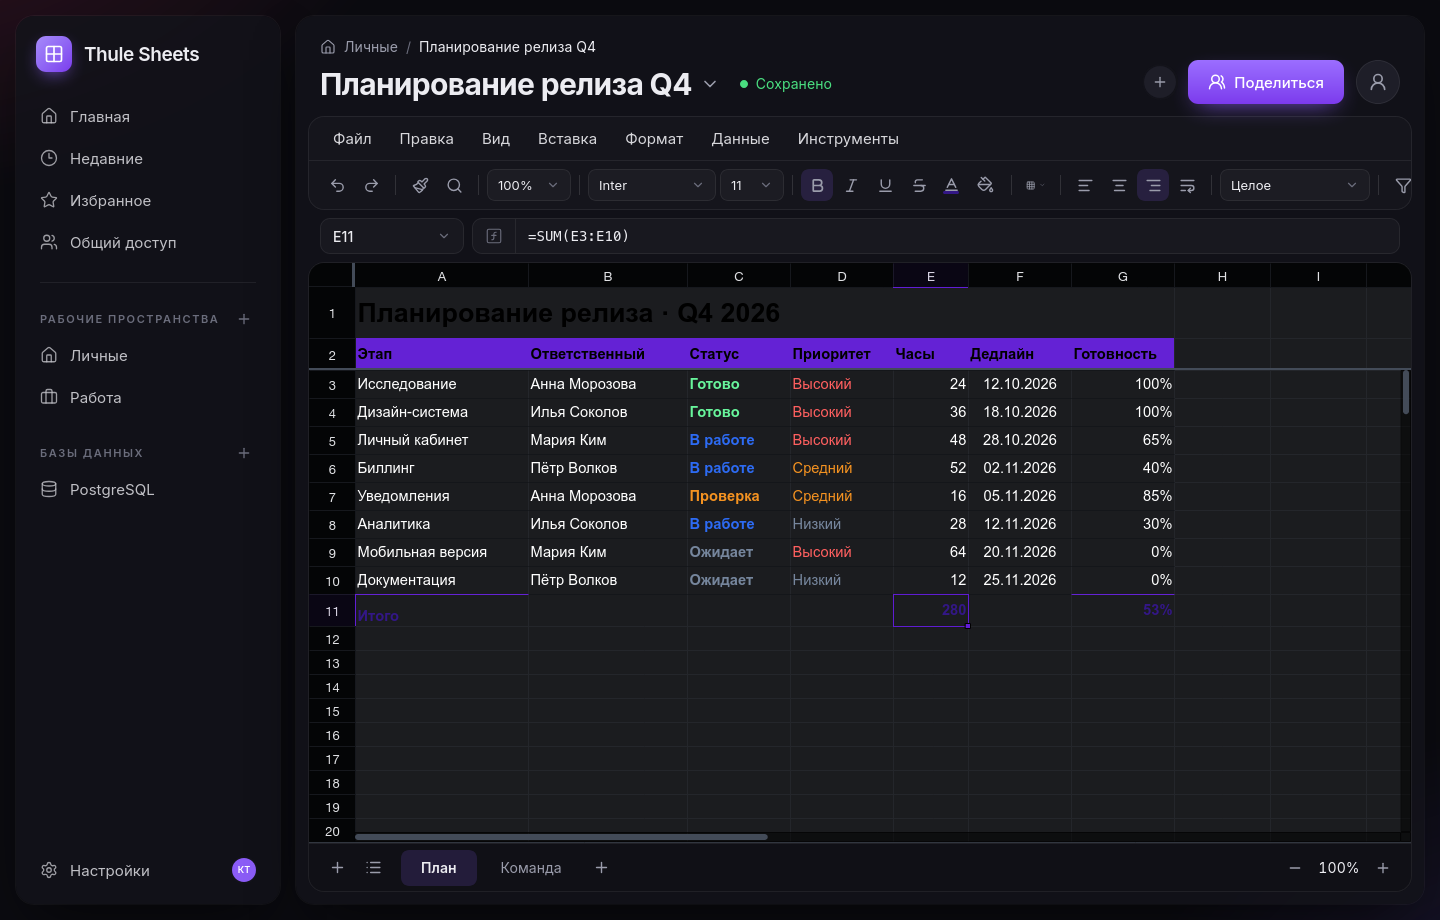
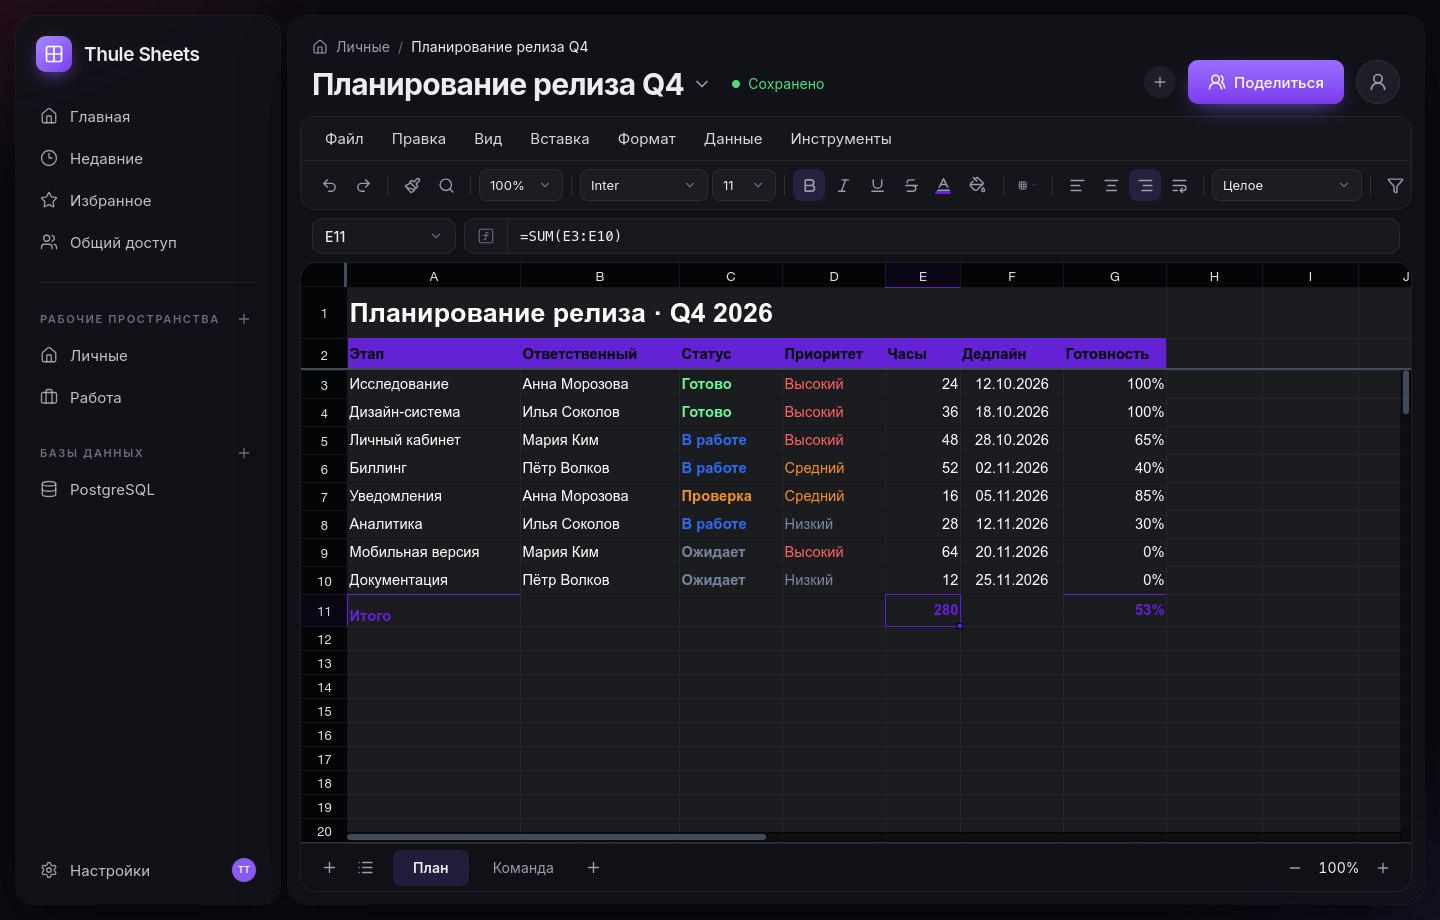
Add light sheet theme and 8px window gap
- Add a persisted light/dark toggle for the sheet canvas in the View menu
- Adapt sheet tabs and color swatches to the active canvas theme
- Reduce the gap between shell windows to 8 px
- Refresh README presentation and screenshots

diff --git a/apps/web/src/pages/WorkbookPage.tsx b/apps/web/src/pages/WorkbookPage.tsx
@@ -1,6 +1,6 @@
 import { useQuery, useQueryClient } from '@tanstack/react-query';
 import clsx from 'clsx';
-import { ChevronDown, Home, Plus, Star, UserRound, UsersRound } from 'lucide-react';
+import { ChevronDown, Home, Moon, Plus, Star, Sun, UserRound, UsersRound } from 'lucide-react';
 import { useCallback, useEffect, useMemo, useRef, useState, type ReactNode } from 'react';
 import { Link, useNavigate, useParams } from 'react-router';
 
@@ -62,6 +62,9 @@ export function WorkbookPage() {
   const [sheets, setSheets] = useState<SheetInfo[]>([]);
   const [activeSheet, setActiveSheet] = useState('');
   const [zoom, setZoom] = useState(1);
+  const [lightSheet, setLightSheet] = useState(
+    () => localStorage.getItem('thule.sheet-light') === '1',
+  );
   const [saveState, setSaveState] = useState<SaveState>('saved');
   const [status, setStatus] = useState<SyncStatus>('connecting');
   const [peers, setPeers] = useState<Peer[]>([]);
@@ -92,7 +95,7 @@ export function WorkbookPage() {
     const data = detail.data;
     if (!data || !container.current) return;
     let cancelled = false;
-    const h = bootUniver(container.current);
+    const h = bootUniver(container.current, !lightSheet);
     handle.current = h;
     const univerApi = h.api;
     createWorkbook(univerApi, data.snapshot);
@@ -182,6 +185,11 @@ export function WorkbookPage() {
     // toggle (new object identity, same workbook).
   }, [detail.data?.id, refreshUi, toast]);
 
+  // The engine starts in the saved mode; subsequent switches are applied in place.
+  useEffect(() => {
+    univer?.toggleDarkMode(!lightSheet);
+  }, [univer, lightSheet]);
+
   useEffect(() => {
     if (title) document.title = `${title} — Thule Sheets`;
     return () => {
@@ -195,6 +203,14 @@ export function WorkbookPage() {
     if (!sheet) return;
     sheet.zoom(value);
     setZoom(value);
+  }
+
+  function toggleSheetLight() {
+    setLightSheet((previous) => {
+      const next = !previous;
+      localStorage.setItem('thule.sheet-light', next ? '1' : '0');
+      return next;
+    });
   }
 
   async function exportAs(format: 'xlsx' | 'csv') {
@@ -388,6 +404,13 @@ export function WorkbookPage() {
             <MenuItem onSelect={run(commands.unfreeze)}>Снять закрепление</MenuItem>
             <MenuSeparator />
             <MenuItem onSelect={run(commands.toggleGridlines)}>Показать / скрыть сетку</MenuItem>
+            <MenuSeparator />
+            <MenuItem
+              icon={lightSheet ? <Moon className="size-4" /> : <Sun className="size-4" />}
+              onSelect={toggleSheetLight}
+            >
+              {lightSheet ? 'Тёмная таблица' : 'Белая таблица'}
+            </MenuItem>
           </TopMenu>
           <TopMenu label="Вставка">
             <MenuItem disabled={readOnly} onSelect={run(commands.insertRowBefore)}>
@@ -462,7 +485,14 @@ export function WorkbookPage() {
             <MenuItem onSelect={() => setDialog('versions')}>История версий</MenuItem>
           </TopMenu>
         </nav>
-        <Toolbar api={univer} selection={selection} readOnly={readOnly} zoom={zoom} onZoom={setZoomLevel} />
+        <Toolbar
+          api={univer}
+          selection={selection}
+          readOnly={readOnly}
+          zoom={zoom}
+          onZoom={setZoomLevel}
+          darkCanvas={!lightSheet}
+        />
       </div>
 
       <div className="pt-2">
@@ -471,10 +501,20 @@ export function WorkbookPage() {
 
 
       {/* Sheet */}
-      <section className="relative flex min-h-0 flex-1 flex-col overflow-hidden rounded-2xl bg-[#101016] hairline">
+      <section
+        className={clsx(
+          'relative flex min-h-0 flex-1 flex-col overflow-hidden rounded-2xl',
+          lightSheet ? 'border border-black/10 bg-white' : 'bg-[#101016] hairline',
+        )}
+      >
         <div ref={container} className="univer-host min-h-0 flex-1" />
         {(!univer || rebuilding) && (
-          <div className="absolute inset-0 flex items-center justify-center bg-[#101016]/70">
+          <div
+            className={clsx(
+              'absolute inset-0 flex items-center justify-center',
+              lightSheet ? 'bg-white/70' : 'bg-[#101016]/70',
+            )}
+          >
             <Spinner className="size-6" />
           </div>
         )}
@@ -485,6 +525,7 @@ export function WorkbookPage() {
           readOnly={readOnly}
           zoom={zoom}
           onZoom={setZoomLevel}
+          light={lightSheet}
         />
       </section>
 

diff --git a/apps/web/src/editor/SheetTabs.tsx b/apps/web/src/editor/SheetTabs.tsx
@@ -18,6 +18,7 @@ export function SheetTabs({
   readOnly,
   zoom,
   onZoom,
+  light,
 }: {
   api: FUniver | null;
   sheets: SheetInfo[];
@@ -25,6 +26,7 @@ export function SheetTabs({
   readOnly: boolean;
   zoom: number;
   onZoom: (value: number) => void;
+  light: boolean;
 }) {
   const [renaming, setRenaming] = useState<string | null>(null);
   const [draft, setDraft] = useState('');
@@ -65,14 +67,23 @@ export function SheetTabs({
     if (sheet && workbook) workbook.duplicateSheet(sheet);
   }
 
+  const tone = light
+    ? '!text-black/55 hover:!bg-black/[0.05] hover:!text-black'
+    : undefined;
+
   return (
-    <div className="flex h-12 shrink-0 items-center gap-1 border-t border-line px-3">
-      <IconButton label="Добавить лист" disabled={readOnly || !api} onClick={add}>
+    <div
+      className={clsx(
+        'flex h-12 shrink-0 items-center gap-1 border-t px-3',
+        light ? 'border-black/10 text-black/70' : 'border-line',
+      )}
+    >
+      <IconButton label="Добавить лист" className={tone} disabled={readOnly || !api} onClick={add}>
         <Plus className="size-[17px]" />
       </IconButton>
       <Menu>
         <MenuTrigger asChild>
-          <IconButton label="Все листы">
+          <IconButton label="Все листы" className={tone}>
             <List className="size-[17px]" />
           </IconButton>
         </MenuTrigger>
@@ -98,7 +109,10 @@ export function SheetTabs({
                 if (e.key === 'Enter') commitRename();
                 if (e.key === 'Escape') setRenaming(null);
               }}
-              className="h-9 w-32 rounded-lg bg-app px-3 text-[14px] outline-none ring-2 ring-accent/60"
+              className={clsx(
+                'h-9 w-32 rounded-lg px-3 text-[14px] outline-none ring-2 ring-accent/60',
+                light ? 'bg-black/[0.04] text-black' : 'bg-app',
+              )}
             />
           ) : (
             <ContextMenu.Root key={sheet.id}>
@@ -113,8 +127,13 @@ export function SheetTabs({
                   className={clsx(
                     'relative h-9 shrink-0 rounded-lg px-5 text-[14px] transition',
                     sheet.id === activeId
-                      ? 'bg-accent-soft font-semibold text-fg after:absolute after:inset-x-3 after:-bottom-[7px] after:h-[2px] after:rounded-full after:bg-accent'
-                      : 'text-fg-muted hover:bg-hover hover:text-fg',
+                      ? clsx(
+                          'bg-accent-soft font-semibold after:absolute after:inset-x-3 after:-bottom-[7px] after:h-[2px] after:rounded-full after:bg-accent',
+                          light ? 'text-black' : 'text-fg',
+                        )
+                      : light
+                        ? 'text-black/55 hover:bg-black/[0.05] hover:text-black'
+                        : 'text-fg-muted hover:bg-hover hover:text-fg',
                   )}
                 >
                   {sheet.name}
@@ -145,17 +164,25 @@ export function SheetTabs({
             </ContextMenu.Root>
           ),
         )}
-        <IconButton label="Новый лист" disabled={readOnly || !api} onClick={add}>
+        <IconButton label="Новый лист" className={tone} disabled={readOnly || !api} onClick={add}>
           <Plus className="size-[17px]" />
         </IconButton>
       </div>
 
-      <div className="ml-auto flex shrink-0 items-center gap-1 text-[14px]">
-        <IconButton label="Уменьшить" onClick={() => onZoom(Math.max(0.5, Math.round((zoom - 0.1) * 10) / 10))}>
+      <div className={clsx('ml-auto flex shrink-0 items-center gap-1 text-[14px]', light && 'text-black/70')}>
+        <IconButton
+          label="Уменьшить"
+          className={tone}
+          onClick={() => onZoom(Math.max(0.5, Math.round((zoom - 0.1) * 10) / 10))}
+        >
           <Minus className="size-4" />
         </IconButton>
         <span className="w-12 text-center tabular-nums">{Math.round(zoom * 100)}%</span>
-        <IconButton label="Увеличить" onClick={() => onZoom(Math.min(2, Math.round((zoom + 0.1) * 10) / 10))}>
+        <IconButton
+          label="Увеличить"
+          className={tone}
+          onClick={() => onZoom(Math.min(2, Math.round((zoom + 0.1) * 10) / 10))}
+        >
           <Plus className="size-4" />
         </IconButton>
       </div>

diff --git a/apps/web/src/editor/Toolbar.tsx b/apps/web/src/editor/Toolbar.tsx
@@ -73,6 +73,7 @@ function ColorPicker({
   onPick,
   onReset,
   disabled,
+  invert,
 }: {
   label: string;
   icon: ReactNode;
@@ -80,6 +81,7 @@ function ColorPicker({
   onPick: (color: string) => void;
   onReset: () => void;
   disabled?: boolean;
+  invert: boolean;
 }) {
   return (
     <Popover.Root>
@@ -89,7 +91,7 @@ function ColorPicker({
             {icon}
             <span
               className="-mt-0.5 h-[3px] w-4 rounded-full"
-              style={{ background: current ? displayColor(current) : 'transparent' }}
+              style={{ background: current ? displayColor(current, invert) : 'transparent' }}
             />
           </span>
           <ChevronDown className="size-3 text-fg-subtle" />
@@ -114,7 +116,7 @@ function ColorPicker({
                     'size-5 rounded-full ring-1 ring-white/10 transition hover:scale-110',
                     current?.toUpperCase() === color && 'ring-2 ring-accent',
                   )}
-                  style={{ background: displayColor(color) }}
+                  style={{ background: displayColor(color, invert) }}
                 />
               </Popover.Close>
             ))}
@@ -131,12 +133,14 @@ export function Toolbar({
   readOnly,
   zoom,
   onZoom,
+  darkCanvas,
 }: {
   api: FUniver | null;
   selection: SelectionState;
   readOnly: boolean;
   zoom: number;
   onZoom: (value: number) => void;
+  darkCanvas: boolean;
 }) {
   const disabled = !api || readOnly;
   const call = (fn: (api: FUniver) => void) => () => api && fn(api);
@@ -212,6 +216,7 @@ export function Toolbar({
         icon={<Baseline className="size-[17px]" />}
         current={selection.color}
         disabled={disabled}
+        invert={darkCanvas}
         onPick={(color) => api && commands.textColor(api, color)}
         onReset={call(commands.resetTextColor)}
       />
@@ -220,6 +225,7 @@ export function Toolbar({
         icon={<PaintBucket className="size-[17px]" />}
         current={selection.background}
         disabled={disabled}
+        invert={darkCanvas}
         onPick={(color) => api && commands.background(api, color)}
         onReset={call(commands.resetBackground)}
       />

diff --git a/apps/web/src/editor/univer.ts b/apps/web/src/editor/univer.ts
@@ -36,7 +36,7 @@ export interface UniverHandle {
   dispose: () => void;
 }
 
-export function bootUniver(container: HTMLElement): UniverHandle {
+export function bootUniver(container: HTMLElement, darkMode = true): UniverHandle {
   const { univer, univerAPI } = createUniver({
     locale: LocaleType.RU_RU,
     locales: {
@@ -44,7 +44,8 @@ export function bootUniver(container: HTMLElement): UniverHandle {
     },
     theme,
     // Dark mode inverts canvas colors, so snapshots keep "light" colors and export as-is.
-    darkMode: true,
+    // The user can switch the sheet to a white canvas at runtime.
+    darkMode,
     presets: [
       UniverSheetsCorePreset({
         container,

diff --git a/apps/web/src/editor/actions.ts b/apps/web/src/editor/actions.ts
@@ -231,7 +231,8 @@ export function toNumber(value: unknown): number | null {
 }
 
 /** Univer dark mode inverts canvas colors; show swatches the way they will be rendered. */
-export function displayColor(hex: string): string {
+export function displayColor(hex: string, invert = true): string {
+  if (!invert) return hex;
   const value = hex.replace('#', '');
   if (!/^[0-9a-f]{6}$/i.test(value)) return hex;
   const r = Number.parseInt(value.slice(0, 2), 16) / 255;

diff --git a/apps/web/src/main.tsx b/apps/web/src/main.tsx
@@ -34,7 +34,7 @@ function RequireAuth({ children }: { children: ReactNode }) {
 function Shell() {
   return (
     <RequireAuth>
-      <div className="relative flex h-full gap-4 p-4">
+      <div className="relative flex h-full gap-2 p-4">
         <Sidebar />
         <Suspense
           fallback={

diff --git a/HANDOFF.md b/HANDOFF.md
@@ -182,7 +182,9 @@ cd apps/web && npx tsc --noEmit && npx vite build
 - Добавлен CI-workflow `.github/workflows/ci.yml` (backend: pytest, ruff, mypy; frontend: tsc, vite build; сервисы Postgres 17 и Redis 8).
 - Прогнаны проверки: `pytest` — 14 passed, `ruff` и `mypy` без замечаний, `tsc --noEmit` и `vite build` без ошибок.
 - Миграции проверены полным циклом на отдельной базе: `upgrade head` → `downgrade base` → `upgrade head`, база после проверки удалена.
-- Исправлен выход из аккаунта: вместо перехода на `/login` с гонкой состояния теперь выполняется полная перезагрузка на `/login`.
+- Исправлен выход из аккаунта: вместо перехода на `/login` из-за гонки состояния теперь выполняется полная перезагрузка на `/login`.
+- Зазор между окнами уменьшен до 8 px (`apps/web/src/main.tsx`).
+- Добавлен переключатель «Белая таблица» в меню «Вид»: светлый холст Univer без перезагрузки, выбор сохраняется в `localStorage`; палитра цветов учитывает режим, вкладки листов перекрашиваются в светлую схему. Проверено в браузере: переключение в обе стороны, сохранение после перезагрузки.
 
 Замечания:
 

diff --git a/README.md b/README.md
@@ -33,12 +33,18 @@ Thule Sheets заменяет переписку, вложения и вечно
 - **PostgreSQL рядом.** Подключите базу, просматривайте таблицы, правьте строки
   по ключу и выполняйте запросы в SQL-консоли.
 - **Доступ по ролям.** Владелец, редактор и читатель — у каждого свои права.
+- **Тема на выбор.** Приложение остаётся тёмным, а таблица может стать белой —
+  переключается в меню «Вид».
 
 ## 🖥 Интерфейс
 
 Тёмная тема, аккуратные панели, собственный тулбар и строка формул. Слева —
 пространства и базы, сверху — привычные меню, внизу — листы. Ничего лишнего,
 что отвлекало бы от цифр.
+
+Белая таблица — тот же документ на светлом холсте:
+
+<img src="docs/readme-light.png" alt="Белая таблица в Thule Sheets" width="100%">
 
 ## 👥 Для кого
 
